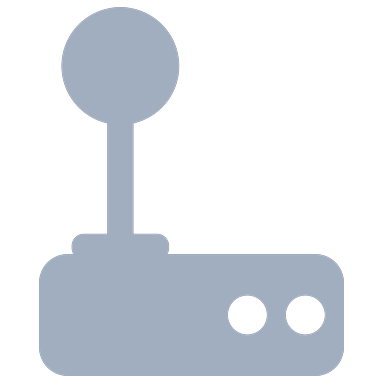
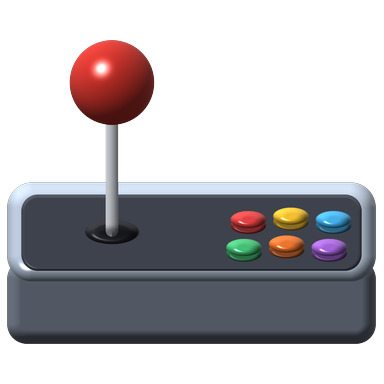
Fancy Pants: Muse and Ports cards rendered, no photographs
An original pocket music player in Muse's green replaces TortOS's iPod
photograph, whose source was never recorded. Ports gets an arcade stick in
steel. Both are rendered by tools/shade3d.py, lit as the alarm clock is.
The image now installs all four non-console cards in both sets.

Claude-Session: https://claude.ai/code/session_01TGGsTE1DNkb6MQqq6tNzFj

diff --git a/tools/shade3d.py b/tools/shade3d.py
@@ -1,0 +1,126 @@
+"""Shaded, lit objects for Fancy Pants cards, drawn with no images: the set is
+photographs of consoles, and the shelves that are not consoles (Recently
+Played, Muse, Ports) get an object rendered to sit among them.
+
+Each shape is drawn from per-pixel normals and lit the same way: a soft key
+light from the upper left, a studio's environment brighter above than below,
+Blinn specular. A canvas is drawn large and finished as the set is: trimmed to
+its own alpha, longest side 96% of a 384 frame, centred
+(res/cards/fancy/SOURCE.md). tools/genrecentfancy.py came first and keeps its
+own copy of the same lighting.
+"""
+import numpy as np
+from PIL import Image, ImageDraw, ImageFilter
+
+L = np.array([-0.45, -0.6, 0.66]); L /= np.linalg.norm(L)
+H = L + np.array([0, 0, 1.0]); H /= np.linalg.norm(H)
+
+
+def rgb(c):
+    return np.array(c, np.float32) / 255.0
+
+
+class Canvas:
+    def __init__(self, n=1600):
+        self.n = n
+        self.yy, self.xx = np.mgrid[0:n, 0:n].astype(np.float32)
+        self.img = np.zeros((n, n, 3), np.float32)
+        self.alpha = np.zeros((n, n), np.float32)
+
+    # ---- lighting --------------------------------------------------------
+    def shade(self, nx, ny, nz, base, spec=1.0, shin=60, amb=0.32, env=0.35):
+        lam = np.clip(nx * L[0] + ny * L[1] + nz * L[2], 0, 1)
+        sp = np.clip(nx * H[0] + ny * H[1] + nz * H[2], 0, 1) ** shin * spec
+        sky = np.clip(0.5 - 0.5 * ny, 0, 1)[..., None]
+        b = rgb(base)
+        c = b * (amb + (1 - amb) * lam[..., None]) \
+            + env * sky * (0.55 * b + 0.45) * (1 - nz[..., None]) * 0.8
+        return np.clip(c + sp[..., None], 0, 1)
+
+    def put(self, mask, col):
+        m = mask[..., None]
+        self.img = self.img * (1 - m) + col * m
+        self.alpha = np.maximum(self.alpha, mask)
+
+    # ---- shapes ----------------------------------------------------------
+    def sphere(self, cx, cy, r, base, **k):
+        dx, dy = (self.xx - cx) / r, (self.yy - cy) / r
+        d2 = dx * dx + dy * dy
+        m = np.clip((1 - np.sqrt(d2)) * r / 1.5, 0, 1)
+        nz = np.sqrt(np.clip(1 - d2, 0, 1))
+        self.put(m, self.shade(dx, dy, nz, base, **k))
+
+    def rod(self, x0, y0, x1, y1, w, base, **k):
+        vx, vy = x1 - x0, y1 - y0
+        ln = np.hypot(vx, vy); ux, uy = vx / ln, vy / ln
+        px, py = self.xx - x0, self.yy - y0
+        t = np.clip(px * ux + py * uy, 0, ln)
+        ex, ey = px - t * ux, py - t * uy
+        d = np.hypot(ex, ey) / (w / 2)
+        m = np.clip((1 - d) * w / 3, 0, 1)
+        sgn = np.sign(ex * (-uy) + ey * ux)
+        nx, ny = (-uy) * sgn * d, ux * sgn * d
+        nz = np.sqrt(np.clip(1 - d * d, 0, 1))
+        self.put(m, self.shade(nx, ny, nz, base, **k))
+
+    def rrect_sdf(self, cx, cy, hw, hh, r):
+        qx = np.abs(self.xx - cx) - (hw - r)
+        qy = np.abs(self.yy - cy) - (hh - r)
+        out = np.hypot(np.maximum(qx, 0), np.maximum(qy, 0))
+        return out + np.minimum(np.maximum(qx, qy), 0) - r
+
+    def ellipse_sdf(self, cx, cy, rx, ry):
+        # good enough near the edge for an antialiased mask and a bevel
+        dx, dy = (self.xx - cx) / rx, (self.yy - cy) / ry
+        return (np.sqrt(dx * dx + dy * dy) - 1) * min(rx, ry)
+
+    def slab(self, sdf, base, tilt=(0.0, 0.0), bevel=40, **k):
+        """A face bounded by sdf (<0 inside), facing the viewer tipped by
+        tilt (nx, ny), its edge rounded over `bevel` px."""
+        m = np.clip(-sdf / 1.5, 0, 1)
+        gy, gx = np.gradient(sdf)
+        gl = np.maximum(np.hypot(gx, gy), 1e-6)
+        gx, gy = gx / gl, gy / gl
+        e = np.clip(-sdf / bevel, 0, 1)
+        ang = (1 - e) * (np.pi / 2) * 0.92
+        nx = gx * np.sin(ang) + tilt[0] * np.cos(ang)
+        ny = gy * np.sin(ang) + tilt[1] * np.cos(ang)
+        nz = np.sqrt(np.clip(1 - nx * nx - ny * ny, 0, 1))
+        self.put(m, self.shade(nx, ny, nz, base, **k))
+        return m
+
+    def flat(self, sdf, col, vignette=None):
+        m = np.clip(-sdf / 1.5, 0, 1)
+        c = np.ones_like(self.img) * rgb(col)
+        if vignette is not None:
+            c = c * vignette[..., None]
+        self.put(m, c)
+        return m
+
+    # ---- finishing ------------------------------------------------------
+    def image(self):
+        im = Image.fromarray((self.img * 255).astype(np.uint8)).convert("RGBA")
+        im.putalpha(Image.fromarray((self.alpha * 255).astype(np.uint8)))
+        return im
+
+
+def overlay(im, layer, mask_arr=None, blur=0):
+    """Composite `layer` (RGBA) over im, clipped to mask_arr (0..1)."""
+    if blur:
+        layer = layer.filter(ImageFilter.GaussianBlur(blur))
+    if mask_arr is not None:
+        a = np.array(layer.getchannel("A"), np.float32) * mask_arr
+        layer.putalpha(Image.fromarray(a.astype(np.uint8)))
+    im.alpha_composite(layer)
+
+
+def finish(im, out):
+    box = im.getchannel("A").getbbox()
+    im = im.crop(box)
+    k = 369.0 / max(im.size)
+    im = im.resize((round(im.width * k), round(im.height * k)), Image.LANCZOS)
+    o = Image.new("RGBA", (384, 384), (0, 0, 0, 0))
+    o.paste(im, ((384 - im.width) // 2, (384 - im.height) // 2), im)
+    o.save(out)
+    print(out, o.size, "ink", o.getchannel("A").getbbox())
+    return o

diff --git a/tools/genmusefancy.py b/tools/genmusefancy.py
@@ -1,0 +1,94 @@
+#!/usr/bin/env python3
+"""Draw res/cards/fancy/MUSE.png, Muse's card in Fancy Pants: a pocket music
+player, rendered (tools/shade3d.py), no images. Its own design rather than any
+one maker's: an anodised body in Muse's green (9CD345, src/main.c's
+MUSE_ACCENT), a screen showing a song playing, and a round control pad with
+skip, play and a list.
+
+It replaces a photograph whose source TortOS never recorded (CREDITS.md).
+
+    tools/genmusefancy.py
+"""
+import math
+import os
+
+import numpy as np
+from PIL import Image, ImageDraw
+
+import shade3d as s3
+
+ROOT = os.path.dirname(os.path.dirname(os.path.abspath(__file__)))
+OUT = os.path.join(ROOT, "res", "cards", "fancy", "MUSE.png")
+
+GREEN = (0x9C, 0xD3, 0x45)
+GREEN_SIDE = (92, 128, 40)
+PAD = (238, 240, 242)
+SCREEN = (20, 22, 28)
+CX, CY = 800, 800
+
+
+def main():
+    c = s3.Canvas(1600)
+    # the body: its edge first, a little right and down, then the face
+    c.slab(c.rrect_sdf(CX + 34, CY + 26, 300, 560, 80), GREEN_SIDE, bevel=40,
+           shin=40, spec=0.4)
+    body = c.slab(c.rrect_sdf(CX, CY, 300, 560, 80), GREEN, bevel=46,
+                  shin=55, spec=0.8, env=0.5)
+    # the screen, a glass panel set into it
+    scr = c.slab(c.rrect_sdf(CX, CY - 270, 240, 200, 22), SCREEN, bevel=8,
+                 shin=120, spec=0.9, amb=0.9, env=0.1)
+    # the pad, domed, and its centre button
+    pad = c.slab(c.ellipse_sdf(CX, CY + 250, 200, 200), PAD, bevel=110,
+                 shin=40, spec=0.5, env=0.4)
+    c.slab(c.ellipse_sdf(CX, CY + 250, 70, 70), GREEN, bevel=40, shin=70,
+           spec=0.9)
+    im = c.image()
+    d = ImageDraw.Draw(im)
+
+    # what the screen shows: a cover, a title, an artist, the time going by
+    x0, y0 = CX - 210, CY - 440
+    cov = Image.new("RGBA", (150, 150))
+    g = np.zeros((150, 150, 4), np.uint8)
+    t = np.linspace(0, 1, 150)
+    for i, (a, b) in enumerate(zip((58, 215, 255), (194, 71, 143))):
+        g[..., i] = (a + (b - a) * (t[None, :] * 0.6 + t[:, None] * 0.4)).astype(np.uint8)
+    g[..., 3] = 255
+    cov = Image.fromarray(g)
+    m = Image.new("L", (150, 150), 0)
+    ImageDraw.Draw(m).rounded_rectangle([0, 0, 149, 149], radius=10, fill=255)
+    im.paste(cov, (x0, y0 + 20), m)
+    d.rounded_rectangle([x0 + 175, y0 + 45, x0 + 400, y0 + 65], radius=10, fill=(235, 236, 240, 255))
+    d.rounded_rectangle([x0 + 175, y0 + 85, x0 + 340, y0 + 101], radius=8, fill=(130, 134, 146, 255))
+    d.rounded_rectangle([x0 + 175, y0 + 120, x0 + 300, y0 + 134], radius=7, fill=(90, 94, 104, 255))
+    d.rounded_rectangle([x0, y0 + 220, x0 + 420, y0 + 232], radius=6, fill=(70, 74, 84, 255))
+    d.rounded_rectangle([x0, y0 + 220, x0 + 250, y0 + 232], radius=6, fill=GREEN + (255,))
+    d.ellipse([x0 + 238, y0 + 214, x0 + 262, y0 + 238], fill=(245, 245, 245, 255))
+    d.rounded_rectangle([x0, y0 + 270, x0 + 60, y0 + 282], radius=6, fill=(90, 94, 104, 255))
+    d.rounded_rectangle([x0 + 360, y0 + 270, x0 + 420, y0 + 282], radius=6, fill=(90, 94, 104, 255))
+
+    # the pad's marks: list at the top, skips at the sides, play/pause below
+    ink = (120, 126, 138, 255)
+    px, py = CX, CY + 250
+    for k in (-1, 0, 1):
+        d.rounded_rectangle([px - 34, py - 150 + k * 16 - 4, px + 34, py - 150 + k * 16 + 4], radius=4, fill=ink)
+    for s in (-1, 1):
+        bx = px + s * 140
+        for off in (0, 26):
+            tri = [(bx + s * (off - 6), py), (bx + s * (off - 30), py - 20), (bx + s * (off - 30), py + 20)]
+            d.polygon(tri, fill=ink)
+        d.rectangle([bx + s * 18 - 4, py - 20, bx + s * 18 + 4, py + 20], fill=ink)
+    d.polygon([(px - 40, py + 128), (px - 40, py + 172), (px - 6, py + 150)], fill=ink)
+    d.rectangle([px + 10, py + 130, px + 20, py + 170], fill=ink)
+    d.rectangle([px + 30, py + 130, px + 40, py + 170], fill=ink)
+
+    # glass on the screen: a soft diagonal sheen
+    sheen = Image.new("RGBA", im.size, (255, 255, 255, 0))
+    sd = ImageDraw.Draw(sheen)
+    sd.polygon([(CX - 240, CY - 470), (CX - 20, CY - 470), (CX - 260, CY - 110), (CX - 240, CY - 110)],
+               fill=(255, 255, 255, 34))
+    s3.overlay(im, sheen, mask_arr=scr, blur=6)
+    s3.finish(im, OUT)
+
+
+if __name__ == "__main__":
+    main()

diff --git a/tools/genportsfancy.py b/tools/genportsfancy.py
@@ -1,0 +1,60 @@
+#!/usr/bin/env python3
+"""Draw res/cards/fancy/PORTS.png, the Ports card in Fancy Pants: an arcade
+stick, rendered (tools/shade3d.py), no images - the same object as the Plain
+Jane card's mark (tools/genportscard.py), in the round. A steel case, Ports'
+accent; a red ball top; six buttons in arcade colors.
+
+    tools/genportsfancy.py
+"""
+import os
+
+from PIL import Image, ImageDraw
+
+import shade3d as s3
+
+ROOT = os.path.dirname(os.path.dirname(os.path.abspath(__file__)))
+OUT = os.path.join(ROOT, "res", "cards", "fancy", "PORTS.png")
+
+STEEL = (160, 174, 192)
+STEEL_DARK = (118, 128, 144)
+PANEL = (52, 56, 66)
+CHROME = (205, 210, 216)
+BALL = (214, 52, 44)
+BUTTONS = [((1000, 862), (220, 58, 58)), ((1150, 850), (240, 186, 40)),
+           ((1300, 862), (60, 170, 230)), ((985, 960), (60, 186, 110)),
+           ((1135, 948), (232, 110, 40)), ((1285, 960), (156, 92, 210))]
+TOP = (0.0, -0.78)              # the top face, seen from above and in front
+
+
+def main():
+    c = s3.Canvas(1600)
+    # the case: its front, then its top rounding over onto it
+    c.slab(c.rrect_sdf(800, 1150, 650, 150, 70), STEEL_DARK, tilt=(0, 0.18),
+           bevel=50, shin=40, spec=0.5)
+    c.slab(c.rrect_sdf(800, 905, 650, 175, 90), STEEL, tilt=TOP, bevel=60,
+           shin=50, spec=0.7, env=0.5)
+    # the play panel set into the top
+    c.slab(c.rrect_sdf(800, 908, 600, 135, 60), PANEL, tilt=TOP, bevel=14,
+           shin=30, spec=0.25, amb=0.45)
+    # buttons: a dark side, then the cap
+    for (x, y), col in BUTTONS:
+        side = tuple(int(v * 0.55) for v in col)
+        c.slab(c.ellipse_sdf(x, y + 20, 64, 31), side, tilt=TOP, bevel=10,
+               shin=30, spec=0.3)
+        c.slab(c.ellipse_sdf(x, y, 64, 31), col, tilt=TOP, bevel=22,
+               shin=70, spec=0.9)
+    # the stick: its dust washer, its shaft, its ball
+    c.slab(c.ellipse_sdf(520, 905, 96, 44), (30, 32, 38), tilt=TOP, bevel=18,
+           shin=40, spec=0.4)
+    c.rod(520, 900, 520, 440, 46, CHROME, shin=90, spec=1.1, env=0.6)
+    c.sphere(520, 380, 150, BALL, shin=70, spec=1.0, env=0.4)
+    im = c.image()
+    # a little contact shadow under the ball's shaft on the panel
+    sh = Image.new("RGBA", im.size, (0, 0, 0, 0))
+    ImageDraw.Draw(sh).ellipse([470, 890, 610, 930], fill=(0, 0, 0, 120))
+    s3.overlay(im, sh, blur=8)
+    s3.finish(im, OUT)
+
+
+if __name__ == "__main__":
+    main()

diff --git a/CREDITS.md b/CREDITS.md
@@ -130,14 +130,10 @@ sold, put behind a paywall, or shipped with a device that is sold.
 - **Mozilla's root certificate list**, as published by the curl project: used
   to check HTTPS servers. MPL-2.0.
 - **GNU bash** 5.1.16 (https://www.gnu.org/software/bash/, GPL-3.0-or-later): `/bin/bash` in the image, unchanged, for ports. Its licence is `Licenses/bash.txt` on the card and its source is in each release's sources archive (`dist/brick/bash-source.tar.xz`, built by `tools/build-bash.sh`).
-- **The Ports and Recently Played cards** are drawn by `tools/genportscard.py` and `tools/genrecentcard.py`, no third-party images.
+- **The Favorites, Muse, Recently Played and Ports cards** are ChaOS's own, with no third-party images: in Plain Jane on the drawn set's own card (`tools/cardstyle.py`), in Fancy Pants rendered as objects (`tools/shade3d.py`; `tools/genmusefancy.py`, `tools/genportsfancy.py`, `tools/genrecentfancy.py`). Muse's Fancy Pants card replaces TortOS's iPod photograph, whose source was never recorded.
 - **ChaOS logo** ("Handheld burst"): original pixel art made for ChaOS, drawn
   pixel by pixel in `tools/genlogo.py` with no third-party images or fonts;
   see `res/logo/SOURCE.md`.
-
-**To replace before release:** TortOS's Muse card (`res/cards/*/MUSE.png`)
-shows an iPod photograph whose source TortOS does not record. This fork will
-use its own art there instead.
 
 ---
 
